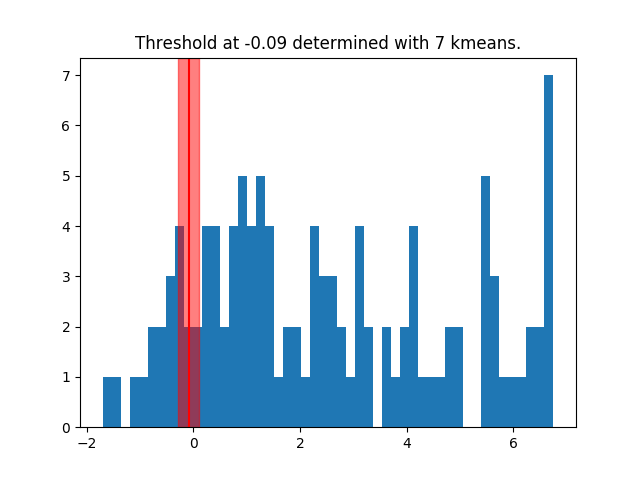
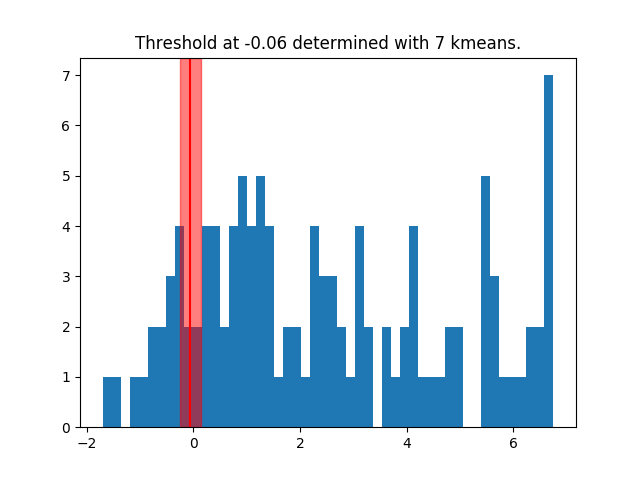
Add kmeans stats to csv outputs

Changed region(s): [[0.25, 0.125, 0.3438, 0.875], [0.4375, 0.0625, 0.4688, 0.0938]]

diff --git a/bin/twcDist.py b/bin/twcDist.py
@@ -99,7 +99,7 @@ def main(inTWC, outpng, outcsv):
         i += 1
 
     groups = calculate_stats(twcListData, 7)[1]
-    print(np.mean(statMins), np.std(statMins))
+    print(round(np.mean(statMins),3), round(np.std(statMins),3))
     signatureThreshold = np.mean(statMins)
 
     plt.title(f"TWC signature threshold {round(signatureThreshold,2)}")
@@ -111,8 +111,10 @@ def main(inTWC, outpng, outcsv):
 
     plot_data_dist_and_anomaly_threshold(twc_data, signatureThreshold, np.std(statMins), outpng)
     with open(outcsv, 'w') as f:
+        f.write(f"TWC signature threshold and STD {round(np.mean(statMins),3)},{round(np.std(statMins),3)}\n")
         f.write("Residue,TWC\n")
         for key in twc_anomally.keys():
             f.write(f"{key},{twc_anomally[key]}\n")
+
 
 main(sys.argv[1], sys.argv[2], sys.argv[3])
